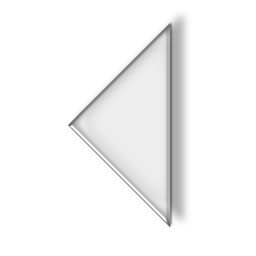
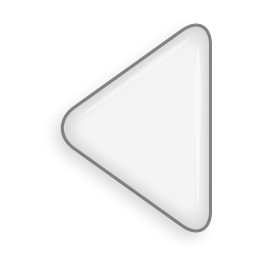
New Joystick sprites

Changed region(s): [[0.2188, 0.0625, 0.8438, 0.9375]]

diff --git a/Assets/Scripts/Scene/Entities/Trigger.cs b/Assets/Scripts/Scene/Entities/Trigger.cs
@@ -4,6 +4,7 @@ using UnityEngine;
 public class Trigger
 {
 	public readonly bool repeat;
+	public readonly bool persist;
 	public readonly Rect area;
 
 	public readonly string message;
